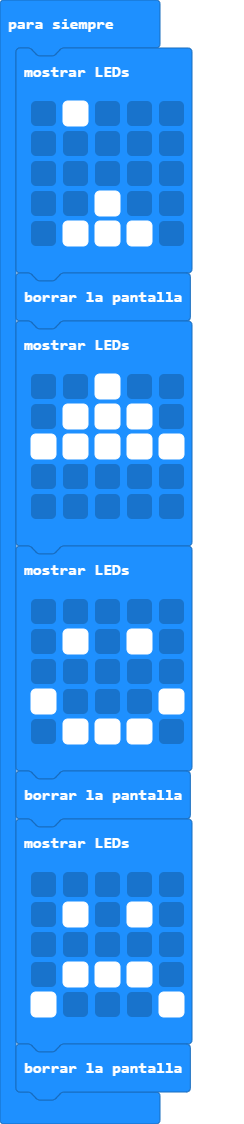
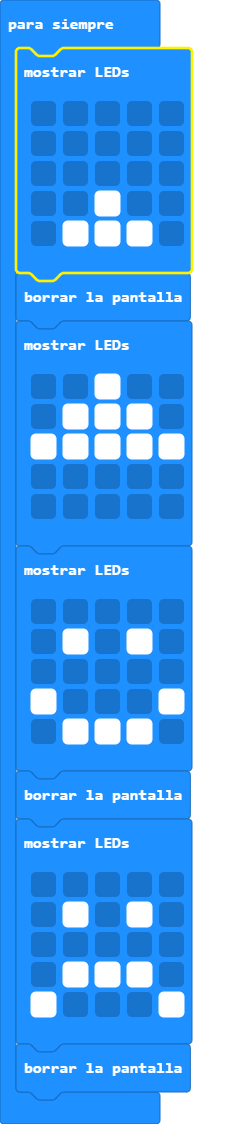
Actualizar main.blocks, main.ts

Changed region(s): [[0.0574, 0.0311, 0.8033, 0.2491]]

diff --git a/main.ts b/main.ts
@@ -1,6 +1,6 @@
 basic.forever(function () {
     basic.showLeds(`
-        . # . . .
+        . . . . .
         . . . . .
         . . . . .
         . . # . .
